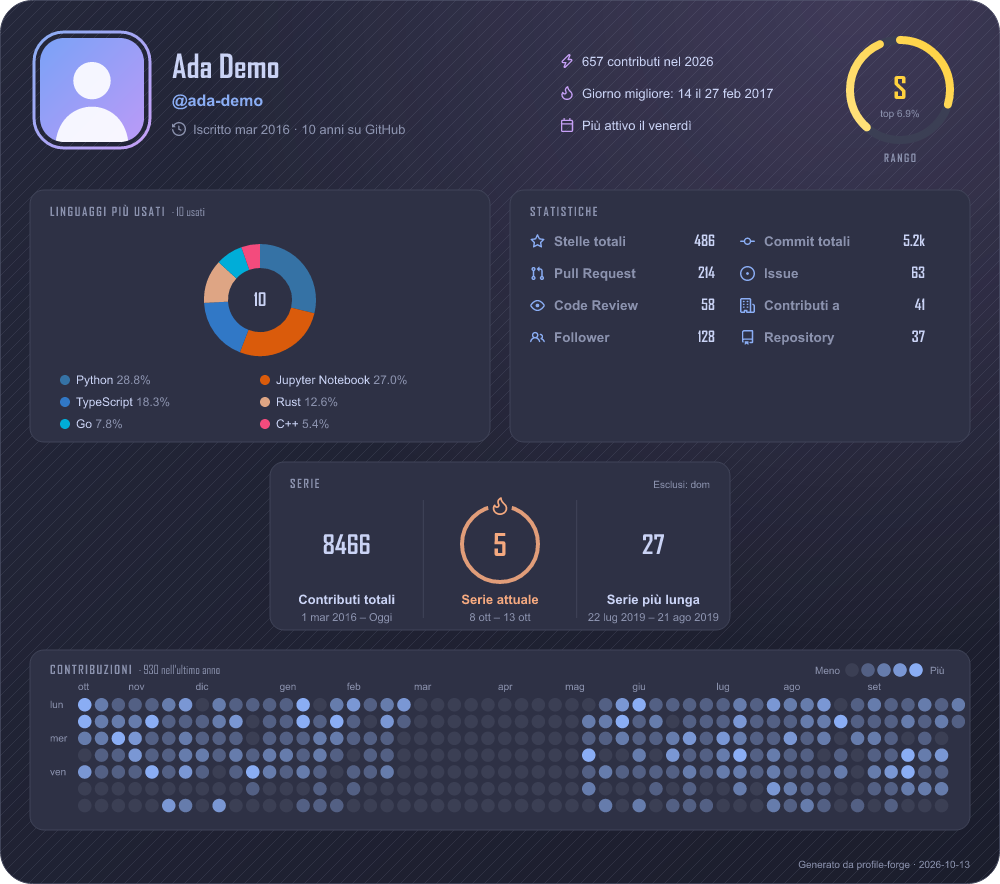
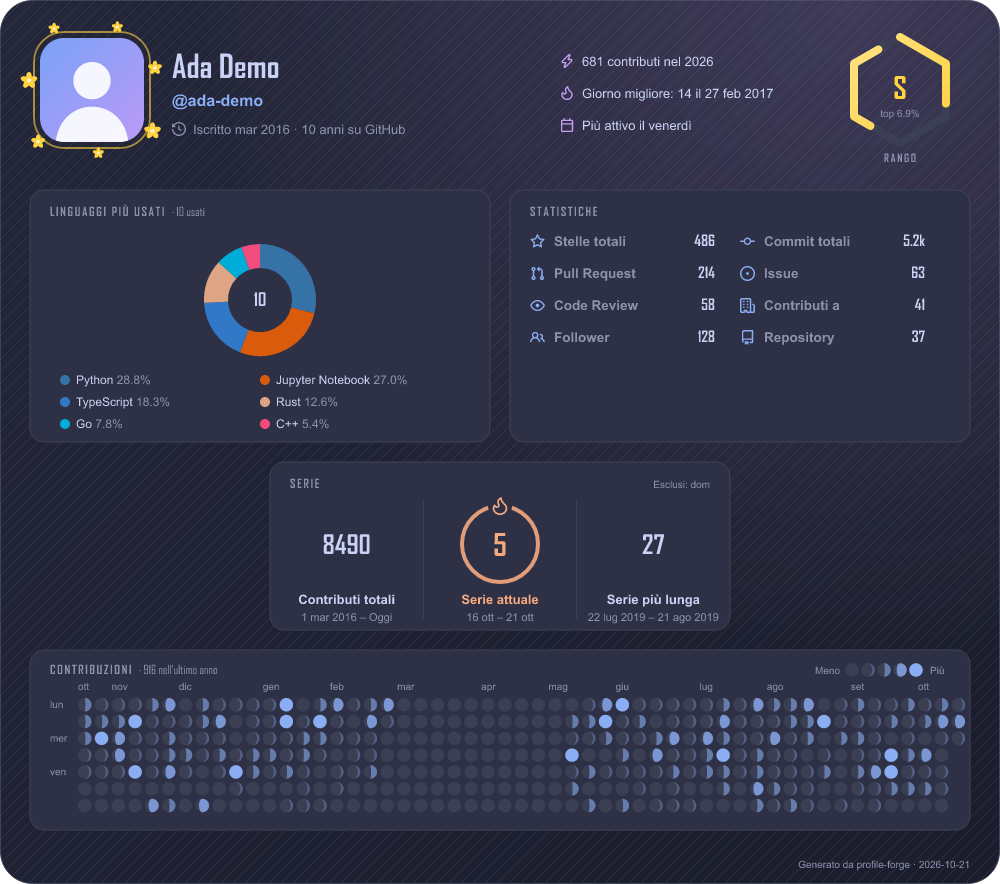
Presets: give each one its own heatmap, snake, frame and rank style

diff --git a/presets/README.md b/presets/README.md
@@ -10,17 +10,17 @@ Every preset defines a `dark` and a `light` slot, so the README `<picture>` snip
 
 | Preset | Idea |
 |---|---|
-| [`minimal`](minimal.json) | Small and quiet: no border, no glow, a few numbers |
-| [`dashboard`](dashboard.json) | Dracula / Gruvbox, donut languages, trophies, round heatmap |
-| [`terminal`](terminal.json) | Green-on-black hacker look, grid background, `$ stats` titles |
-| [`pastel-it`](pastel-it.json) | Catppuccin, Italian labels, rounded corners, vertical donut |
-| [`trophy-case`](trophy-case.json) | Trophies first, including the opt-in Issues and Reviews |
-| [`cyberpunk`](cyberpunk.json) | Two `customThemes` (neon dark + matching light), pie chart |
-| [`portfolio`](portfolio.json) | Replaces your whole README: about, projects, links, tech stack |
-| [`streak-focus`](streak-focus.json) | Consistency view: streaks, weekdays only, heatmap |
-| [`open-source`](open-source.json) | Merged PRs, discussions, weighted languages, selected trophies |
-| [`aurora`](aurora.json) | Northern-lights gradient, a terminal, weekday rhythm, glowing snake |
-| [`zen`](zen.json) | Quiet paper / Rosé Pine Moon, rhythm first, trophies by level |
+| [`minimal`](minimal.json) | Small and quiet: no border, no glow, a few numbers, plain square grid |
+| [`dashboard`](dashboard.json) | Dracula / Gruvbox, donut languages, trophies, snake that eats the busiest days first |
+| [`terminal`](terminal.json) | Green-on-black hacker look, `$ stats` titles, a long lime snake sweeping column by column |
+| [`pastel-it`](pastel-it.json) | Catppuccin, Italian labels, sakura frame, vertical donut, moon-phase heatmap |
+| [`trophy-case`](trophy-case.json) | Trophies first by level, two highlighted, laurel frame, triangle heatmap |
+| [`cyberpunk`](cyberpunk.json) | Two `customThemes` (neon dark + a matching light), pie chart, glitch frame, glowing spiral snake on triangles |
+| [`portfolio`](portfolio.json) | Replaces your whole README: about, projects, links, tech stack by category, mixed-shape heatmap |
+| [`streak-focus`](streak-focus.json) | Consistency view: streaks, weekday rhythm, flames frame, snake row by row on a honeycomb |
+| [`open-source`](open-source.json) | Merged PRs, discussions, weighted languages, trophies by level, monthly rhythm, snowflake heatmap |
+| [`aurora`](aurora.json) | Northern-lights gradient, a terminal, weekday rhythm, glowing snake that always goes to the closest day |
+| [`zen`](zen.json) | Quiet paper / Rosé Pine Moon, rhythm first, halo frame, honeycomb heatmap, trophies by level |
 | [`showcase`](showcase.json) | Tokyo Night with every new piece: terminal, rhythm, rainbow snake, highlighted trophies |
 
 `portfolio` reads its tech stack icons from `assets/img/` (relative to `config.json`): copy [`assets/img/`](assets/img) next to your config, and replace the placeholder text, URLs and `your-login`.

diff --git a/GUIDE.md b/GUIDE.md
@@ -54,17 +54,17 @@ curl -o config.json https://raw.githubusercontent.com/GiuseppeBellamacina/profil
 
 | Preset | Idea |
 |---|---|
-| [`minimal`](presets/minimal.json) | Small and quiet: no border, no glow, a few numbers |
-| [`dashboard`](presets/dashboard.json) | Dracula / Gruvbox, donut languages, trophies, round heatmap |
-| [`terminal`](presets/terminal.json) | Green-on-black hacker look, grid background, `$ stats` titles |
-| [`pastel-it`](presets/pastel-it.json) | Catppuccin, Italian labels, rounded corners, vertical donut |
-| [`trophy-case`](presets/trophy-case.json) | Trophies first, including the opt-in Issues and Reviews |
-| [`cyberpunk`](presets/cyberpunk.json) | Two `customThemes` (neon dark + a matching light), pie chart |
-| [`portfolio`](presets/portfolio.json) | Replaces your whole README: about, projects, links, tech stack |
-| [`streak-focus`](presets/streak-focus.json) | Consistency view: streaks, weekdays only, heatmap |
-| [`open-source`](presets/open-source.json) | Merged PRs, discussions, weighted languages, selected trophies |
-| [`aurora`](presets/aurora.json) | Northern-lights gradient, a terminal, weekday rhythm, glowing snake |
-| [`zen`](presets/zen.json) | Quiet paper / Rosé Pine Moon, rhythm first, trophies by level |
+| [`minimal`](presets/minimal.json) | Small and quiet: no border, no glow, a few numbers, plain square grid |
+| [`dashboard`](presets/dashboard.json) | Dracula / Gruvbox, donut languages, trophies, snake that eats the busiest days first |
+| [`terminal`](presets/terminal.json) | Green-on-black hacker look, `$ stats` titles, a long lime snake sweeping column by column |
+| [`pastel-it`](presets/pastel-it.json) | Catppuccin, Italian labels, sakura frame, vertical donut, moon-phase heatmap |
+| [`trophy-case`](presets/trophy-case.json) | Trophies first by level, two highlighted, laurel frame, triangle heatmap |
+| [`cyberpunk`](presets/cyberpunk.json) | Two `customThemes` (neon dark + a matching light), pie chart, glitch frame, glowing spiral snake on triangles |
+| [`portfolio`](presets/portfolio.json) | Replaces your whole README: about, projects, links, tech stack by category, mixed-shape heatmap |
+| [`streak-focus`](presets/streak-focus.json) | Consistency view: streaks, weekday rhythm, flames frame, snake row by row on a honeycomb |
+| [`open-source`](presets/open-source.json) | Merged PRs, discussions, weighted languages, trophies by level, monthly rhythm, snowflake heatmap |
+| [`aurora`](presets/aurora.json) | Northern-lights gradient, a terminal, weekday rhythm, glowing snake that always goes to the closest day |
+| [`zen`](presets/zen.json) | Quiet paper / Rosé Pine Moon, rhythm first, halo frame, honeycomb heatmap, trophies by level |
 | [`showcase`](presets/showcase.json) | Tokyo Night with every new piece: terminal, rhythm, rainbow snake, highlighted trophies |
 
 <table>
